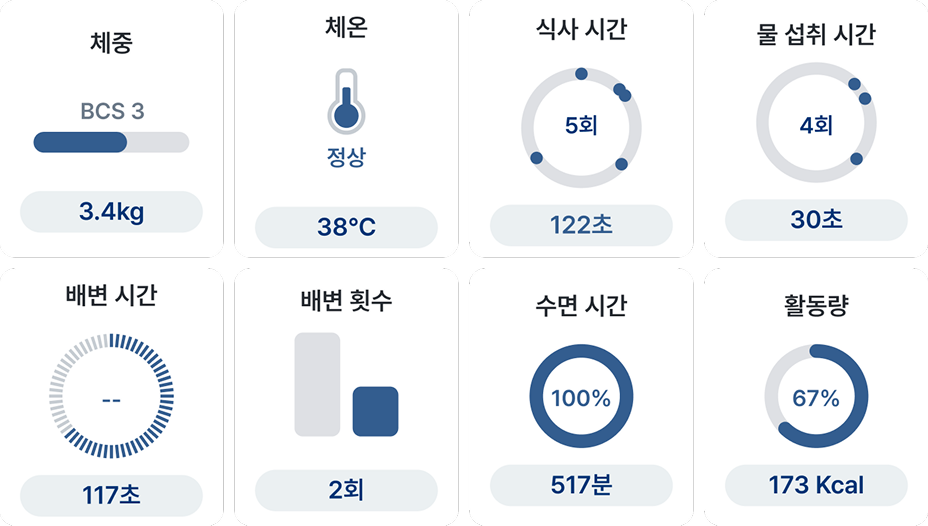
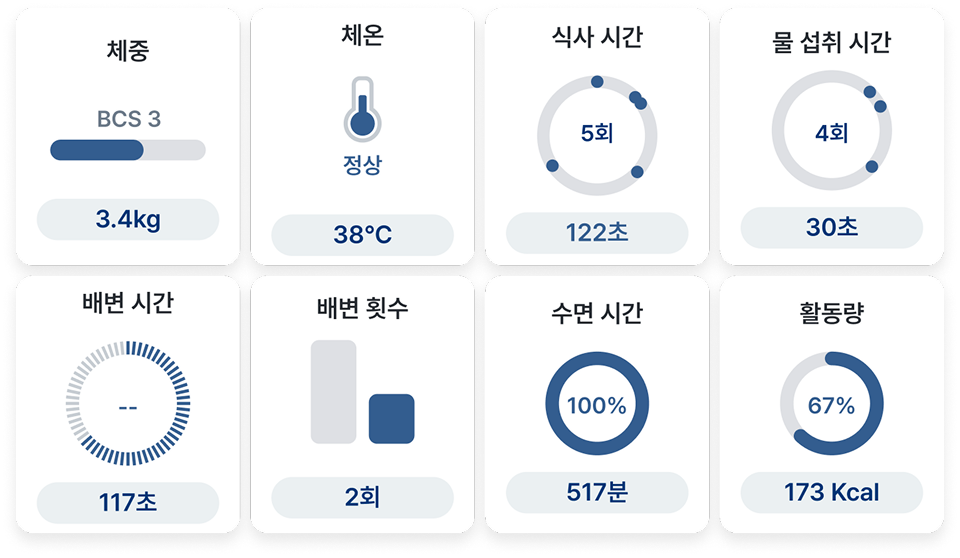
Update main hero mobile video and adjust friends iot dashboard image

diff --git a/src/components/Hero/Hero.tsx b/src/components/Hero/Hero.tsx
@@ -6,6 +6,7 @@ type HeroProps = {
   videoPoster?: string
   videoSrcHvc?: string
   videoSrcH264?: string
+  mobileVideoPoster?: string
   mobileVideoSrcHvc?: string
   mobileVideoSrcH264?: string
   imageSrc?: string
@@ -22,6 +23,7 @@ export default function Hero({
   videoPoster,
   videoSrcHvc,
   videoSrcH264,
+  mobileVideoPoster,
   mobileVideoSrcHvc,
   mobileVideoSrcH264,
   imageSrc,
@@ -35,6 +37,7 @@ export default function Hero({
   const prefixedPoster = videoPoster ? prefixPath(videoPoster) : undefined
   const prefixedHvc = videoSrcHvc ? prefixPath(videoSrcHvc) : undefined
   const prefixedH264 = videoSrcH264 ? prefixPath(videoSrcH264) : undefined
+  const prefixedMobilePoster = mobileVideoPoster ? prefixPath(mobileVideoPoster) : undefined
   const prefixedMobileHvc = mobileVideoSrcHvc ? prefixPath(mobileVideoSrcHvc) : undefined
   const prefixedMobileH264 = mobileVideoSrcH264 ? prefixPath(mobileVideoSrcH264) : undefined
   const prefixedImage = imageSrc ? prefixPath(imageSrc) : undefined
@@ -53,10 +56,22 @@ export default function Hero({
             playsInline
             poster={prefixedPoster}
             preload="none"
-            className="Hero-media"
+            className="Hero-media Hero-media--desktop"
           >
-            {prefixedMobileHvc ? <source media="(max-width: 768px)" src={prefixedMobileHvc} type="video/mp4; codecs=hvc1" /> : null}
-            {prefixedMobileH264 ? <source media="(max-width: 768px)" src={prefixedMobileH264} type="video/mp4" /> : null}
+            <source src={prefixedHvc} type="video/mp4; codecs=hvc1" />
+            <source src={prefixedH264} type="video/mp4" />
+          </video>
+          <video
+            autoPlay
+            loop
+            muted
+            playsInline
+            poster={prefixedMobilePoster ?? prefixedPoster}
+            preload="none"
+            className="Hero-media Hero-media--mobile"
+          >
+            {prefixedMobileHvc ? <source src={prefixedMobileHvc} type="video/mp4; codecs=hvc1" /> : null}
+            {prefixedMobileH264 ? <source src={prefixedMobileH264} type="video/mp4" /> : null}
             <source src={prefixedHvc} type="video/mp4; codecs=hvc1" />
             <source src={prefixedH264} type="video/mp4" />
           </video>

diff --git a/src/data/mainSections.ts b/src/data/mainSections.ts
@@ -4,8 +4,9 @@ export const MAIN_HERO_VIDEO = {
   poster: "https://d2dusau7i4u1ud.cloudfront.net/products/714/vedeo_main_hero_thumbnail_1771996429202.jpg",
   hvc: "https://d2dusau7i4u1ud.cloudfront.net/products/714/vedeo_main_hero_hevc_1771996429202.mp4",
   h264: "https://d2dusau7i4u1ud.cloudfront.net/products/714/vedeo_main_hero_h264_1771996429202.mp4",
-  mobileHvc: "https://d2dusau7i4u1ud.cloudfront.net/products/714/vedeo_main_hero_hevc_1771996429202.mp4",
-  mobileH264: "https://d2dusau7i4u1ud.cloudfront.net/products/714/vedeo_main_hero_h264_1771996429202.mp4",
+  mobilePoster: "https://d2dusau7i4u1ud.cloudfront.net/products/714/vedeo_main_hero_mo_thumbnail_1772692185628.jpg",
+  mobileHvc: "https://d2dusau7i4u1ud.cloudfront.net/products/714/vedeo_main_hero_mo_hevc_1772692185628.mp4",
+  mobileH264: "https://d2dusau7i4u1ud.cloudfront.net/products/714/vedeo_main_hero_mo_h264_1772692185628.mp4",
 } as const
 
 export const ENVIRONMENT_SLIDE_ITEMS: SlideRowItem[] = [

diff --git a/src/app/page.tsx b/src/app/page.tsx
@@ -21,10 +21,12 @@ export default function Home() {
   return (
     <>
       <Hero
+        className="MainHero"
         type="video"
         videoPoster={MAIN_HERO_VIDEO.poster}
         videoSrcHvc={MAIN_HERO_VIDEO.hvc}
         videoSrcH264={MAIN_HERO_VIDEO.h264}
+        mobileVideoPoster={MAIN_HERO_VIDEO.mobilePoster}
         mobileVideoSrcHvc={MAIN_HERO_VIDEO.mobileHvc}
         mobileVideoSrcH264={MAIN_HERO_VIDEO.mobileH264}
       />

diff --git a/src/components/Hero/Hero.css b/src/components/Hero/Hero.css
@@ -16,6 +16,10 @@
     z-index: 1;
   }
 
+  .Hero-media--mobile {
+    display: none;
+  }
+
   .Hero-overlay {
     position: relative;
     z-index: 2;
@@ -85,6 +89,14 @@
 
 @media (max-width: 768px) {
   .Hero {
+    .Hero-media--desktop {
+      display: none;
+    }
+
+    .Hero-media--mobile {
+      display: block;
+    }
+
     .Hero-overlay {
       padding-top: var(--spacing-60);
       padding-bottom: var(--spacing-160);

diff --git a/src/components/PethroomFriendsIotSection/PethroomFriendsIotSection.css b/src/components/PethroomFriendsIotSection/PethroomFriendsIotSection.css
@@ -101,8 +101,9 @@
   }
 
   .PethroomFriendsIot-dashboardImage {
+    width: 100%;
+    max-width: 464px;
     border-radius: var(--spacing-24);
-    box-shadow: 0 var(--spacing-4) var(--spacing-8) rgba(0, 0, 0, 0.1);
     display: block;
   }
 

diff --git a/src/app/page.css b/src/app/page.css
@@ -58,6 +58,11 @@
 }
 
 @media (max-width: 768px) {
+  .MainHero.Hero {
+    height: 720px;
+    aspect-ratio: auto;
+  }
+
   .SectionNumber {
     font-size: var(--font-size-190);
   }
